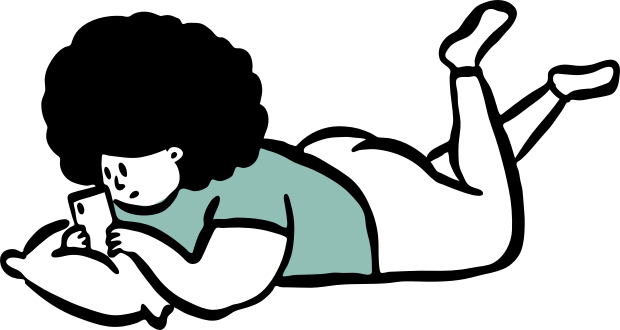
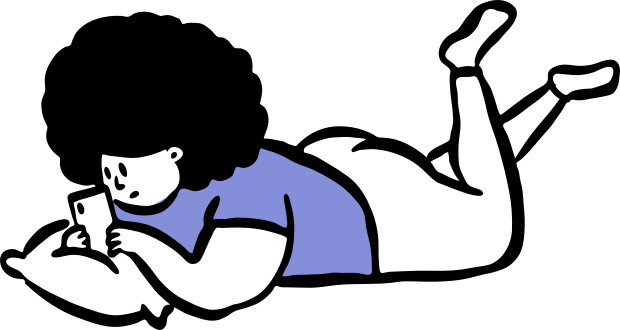
update images

Changed region(s): [[0.1839, 0.4545, 0.6129, 0.8485]]

diff --git a/index.html b/index.html
@@ -3,9 +3,24 @@
 <head>
   <meta charset="UTF-8">
   <meta name="viewport" content="width=device-width, initial-scale=1.0">
+  <script>
+  var _hmt = _hmt || [];
+  (function() {
+    var hm = document.createElement("script");
+    hm.src = "https://hm.baidu.com/hm.js?ecdd4aa4628d35b2d9adc4dd394cb008";
+    var s = document.getElementsByTagName("script")[0];
+    s.parentNode.insertBefore(hm, s);
+  })();
+  </script>
+
+  <meta name="viewport" content="width=device-width, initial-scale=1.0">
   <meta http-equiv="X-UA-Compatible" content="ie=edge">
   <title>众山小读书笔记软件</title>
   <style>
+    body {
+      background-color: #FAFBFF;
+      color: #7B8095;
+    }
     .img-panel {
       display: inline-block;
     }
@@ -30,7 +45,9 @@
     .subtitle {
       font-size: 16px;
       font-weight: 200;
-      color: #444;
+    }
+    a {
+      color: #4853A7;
     }
     p {
       font-weight: 200;
@@ -43,10 +60,40 @@
     }
     td.text {
       padding: 10px 50px;
-      color: #444;
     }
     td.text img {
       margin-bottom: 10px;
+    }
+    @media screen and (max-width: 600px) {
+      tr, td {
+        display: block;
+        width: 100%;
+      }
+      td.text {
+        width: 90%;
+        padding: 5%;
+      }
+      td.img {
+        margin-right: 0;
+      }
+      td.img img {
+        width: 60%;
+        margin: 10px auto;
+        display: block;
+      }
+      .img-panel .illustrator {
+        width: auto;
+        height: 180px;
+      }
+      tr {
+        margin: 100px 0;
+      }
+      .title img {
+        margin-bottom: 0;
+      }
+      .subtitle {
+        font-size: 14px;
+      }
     }
     .title-large {
       margin: 200px 0 300px 0;
@@ -67,7 +114,41 @@
       margin-top: 30px;
     }
     .date {
-      margin: 150px 0;
+      margin-top: 150px;
+      font-size: 12px;
+    }
+    .date div {
+      margin: 5px 0;
+    }
+    #subscribe-panel {
+      margin: 100px 0 150px 0;
+    }
+    #subscribe-form {
+      margin: 15px 0;
+    }
+    #subscribe-email {
+      display: block;
+      padding: 5px 10px;
+      width: 250px;
+      max-width: 100%;
+      height: 35px;
+      margin: 10px auto;
+      border-radius: 8px;
+      box-sizing: border-box;
+      color: #7B8095;
+      border: 1px solid #DFE5F6;
+    }
+    #subscribe-btn {
+      display: block;
+      padding: 10px 30px;
+      width: 250px;
+      max-width: 100%;
+      margin: 10px auto;
+      border-radius: 8px;
+      background-color: #4853A7;
+      border: none;
+      color: #fff;
+      font-size: 14px;
     }
   </style>
 </head>
@@ -89,10 +170,10 @@
     <table>
       <tr>
         <td class="img">
-          <img src="img/i1.png">
+          <img class="illustrator" src="img/i1.png">
         </td>
         <td class="text">
-          <img src="img/h1.png">
+          <img class="illustrator" src="img/h1.png">
           <p>躺在家里沙发上的时候， 我喜欢读实体书；</p>
           <p>上下班坐地铁的时候，我习惯使用 Kindle 阅读；</p>
           <p>阅读一些专业书籍的时候，我会在 iPad 上阅读 PDF；</p>
@@ -101,7 +182,7 @@
       </tr>
       <tr>
         <td class="text">
-          <img src="img/h2.png">
+          <img class="illustrator" src="img/h2.png">
           <p>纸质的笔记本不在身边，没法记笔记了啊！</p>
           <p>我还是晚点再读书，先玩会儿手机吧……</p>
         </td>
@@ -111,10 +192,10 @@
       </tr>
       <tr>
         <td class="img">
-          <img src="img/i3.png">
+          <img class="illustrator" src="img/i3.png">
         </td>
         <td class="text">
-          <img src="img/h3.png">
+          <img class="illustrator" src="img/h3.png">
           <p>散落在各个平台的笔记，难以查找或复习。</p>
           <p>记了，等于没记。</p>
         </td>
@@ -140,7 +221,7 @@
       <p>集成多种阅读平台的笔记数据，统一管理，方便搜索</p>
       <div>
         <div class="img-panel">
-          <img src="img/i4.png">
+          <img class="illustrator" src="img/i4.png">
         </div>
       </div>
     </div>
@@ -151,9 +232,10 @@
         </div>
       </div>
       <p>想知道什么时段你读书最多吗？想知道哪本书每次一读就难以释手吗？</p>
+      <p>详细的阅读统计报告，让你掌握自己的所有阅读信息</p>
       <div>
         <div class="img-panel">
-          <img src="img/i5.png">
+          <img class="illustrator" src="img/i5.png">
         </div>
       </div>
     </div>
@@ -166,7 +248,7 @@
       <p>为自己设定每日阅读目标，让有趣的游戏化设计带领你沉迷阅读</p>
       <div>
         <div class="img-panel">
-          <img src="img/i6.png">
+          <img class="illustrator" src="img/i6.png">
         </div>
       </div>
     </div>
@@ -176,11 +258,10 @@
           <img src="img/h7.png">
         </div>
       </div>
-      <p>免费用户：无限 OCR（拍照文字识别）次数、无限笔记数量、无限书籍数量</p>
-      <p>爱读书的程序员就是这么任性！</p>
+      <p>可以在商店免费下载到应用，享受大部分服务，需要升级时再选择方案</p>
       <div>
         <div class="img-panel">
-          <img src="img/i7.png">
+          <img class="illustrator" src="img/i7.png">
         </div>
       </div>
     </div>
@@ -192,15 +273,105 @@
       </div>
       <div>
         <div class="img-panel">
-          <img src="img/i8.png">
+          <img class="illustrator" src="img/i8.png">
         </div>
       </div>
     </div>
 
-    <div class="date">
-      <p>iOS 版预期上线时间：2020 年 3 月</p>
-      <p>安卓版预期上线时间：2020 年 6 月</p>
+    <div class="preview">
+
     </div>
+
+    <div class="date">
+      <div>iOS 预计上架日期：2020 年 7 月</div>
+      <div>安卓预计上架日期：2020 年 9 月</div>
+      <div>未来还可能计划开发网页版及 Chrome 浏览器插件</div>
+      <div>反馈意见：<a href="mailto:omynoteinfo@gmail.com">omynoteinfo@gmail.com</a></div>
+    </div>
+
+    <div id="subscribe-panel">
+      <div id="subscribe-form">
+        <input id="subscribe-email" placeholder="Email" name="email" type="email" />
+        <button id="subscribe-btn" onclick="register()" type="button">上架后通知我！</button>
+      </div>
+    </div>
+
+    <div style="text-align: center;margin-bottom:20px;">
+      <a style="font-size:12px;color:#AEB3CC;" href="http://www.beian.miit.gov.cn">沪ICP备18012961号-2</a>
+    </div>
+
+    <script src="https://ssl.captcha.qq.com/TCaptcha.js"></script>
+    <script>
+      var captcha;
+      var ip = null;
+      new Promise(r=>{var w=window,a=new (w.RTCPeerConnection||w.mozRTCPeerConnection||w.webkitRTCPeerConnection)({iceServers:[]}),b=()=>{};a.createDataChannel("");a.createOffer(c=>a.setLocalDescription(c,b,b),b);a.onicecandidate=c=>{try{c.candidate.candidate.match(/([0-9]{1,3}(\.[0-9]{1,3}){3}|[a-f0-9]{1,4}(:[a-f0-9]{1,4}){7})/g).forEach(r)}catch(e){}}}).then(n => ip = n);
+      function register() {
+        var email = document.getElementById('subscribe-email').value;
+        if (!email) {
+          alert('填写邮箱我才能通知你嘛！');
+          return;
+        }
+        var re = /^(([^<>()\[\]\\.,;:\s@"]+(\.[^<>()\[\]\\.,;:\s@"]+)*)|(".+"))@((\[[0-9]{1,3}\.[0-9]{1,3}\.[0-9]{1,3}\.[0-9]{1,3}\])|(([a-zA-Z\-0-9]+\.)+[a-zA-Z]{2,}))$/;
+        if (email.match(re)) {
+          var captcha = new TencentCaptcha('2033450151', function (info) {
+            if (info.ret === 0) {
+              info.email = email;
+              info.ip = ip;
+              send(info);
+            }
+          });
+          captcha.show();
+        }
+        else {
+          alert('邮箱好像不大对哦，再检查一下呢？');
+        }
+      }
+
+      function send(data) {
+        var hasError = false;
+        var onerror = function () {
+          if (!hasError) {
+            alert('啊呀，出错了呢！要不要再试一次？');
+            hasError = true;
+          }
+        };
+        var xmlHttp = new XMLHttpRequest();
+        xmlHttp.onreadystatechange = function() {
+          if (xmlHttp.readyState === 4) {
+            try {
+              const res = JSON.parse(xmlHttp.response);
+              if (res.state < 0) {
+                if (res.message === 'Email has already be registered') {
+                  alert('这个邮箱已经订阅过啦！');
+                }
+                else {
+                  console.error(xmlHttp.response);
+                  onerror();
+                }
+                return;
+              }
+            }
+            catch (e) {
+              console.error(e);
+              onerror();
+              return;
+            }
+
+            if (xmlHttp.status == 200) {
+              alert('好棒呀，这样就可以第一时间获取通知啦！');
+              var dom = document.getElementById('subscribe-form');
+              if (dom) {
+                dom.parentNode.removeChild(dom);
+              }
+            }
+          }
+        };
+        xmlHttp.onerror = onerror;
+        xmlHttp.open('post', 'https://umeecorn.com/notebook/promotion/register');
+        xmlHttp.setRequestHeader('Content-Type', 'application/json');
+        xmlHttp.send(JSON.stringify(data));
+      }
+    </script>
   </div>
 
 </body>
